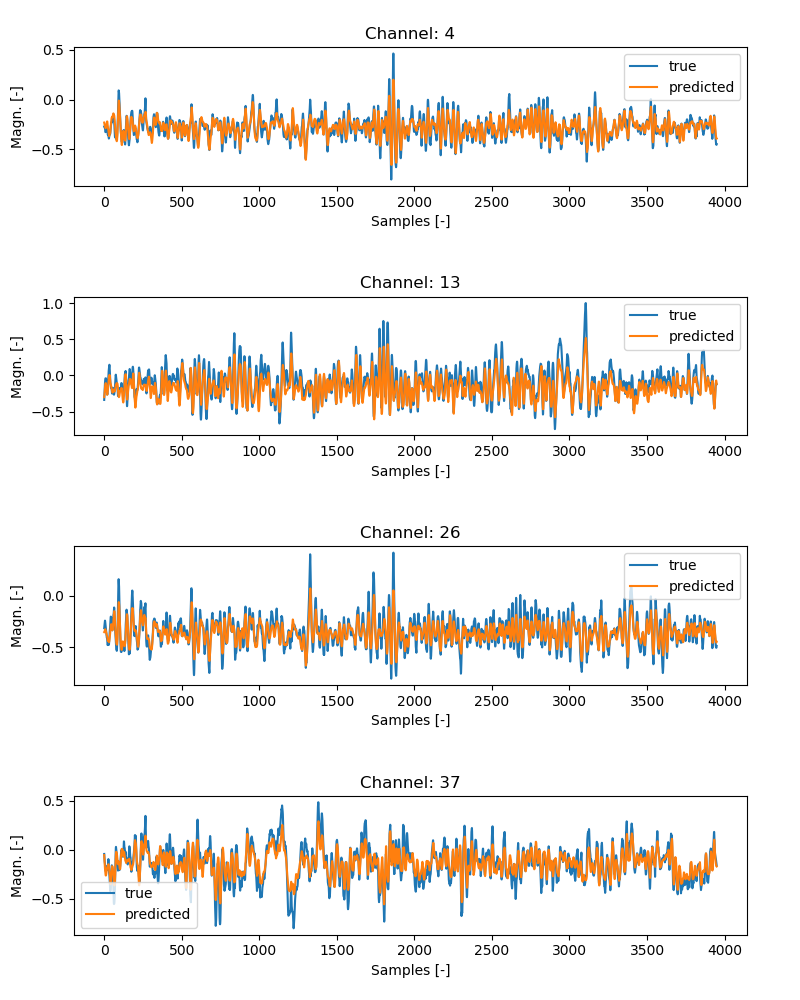
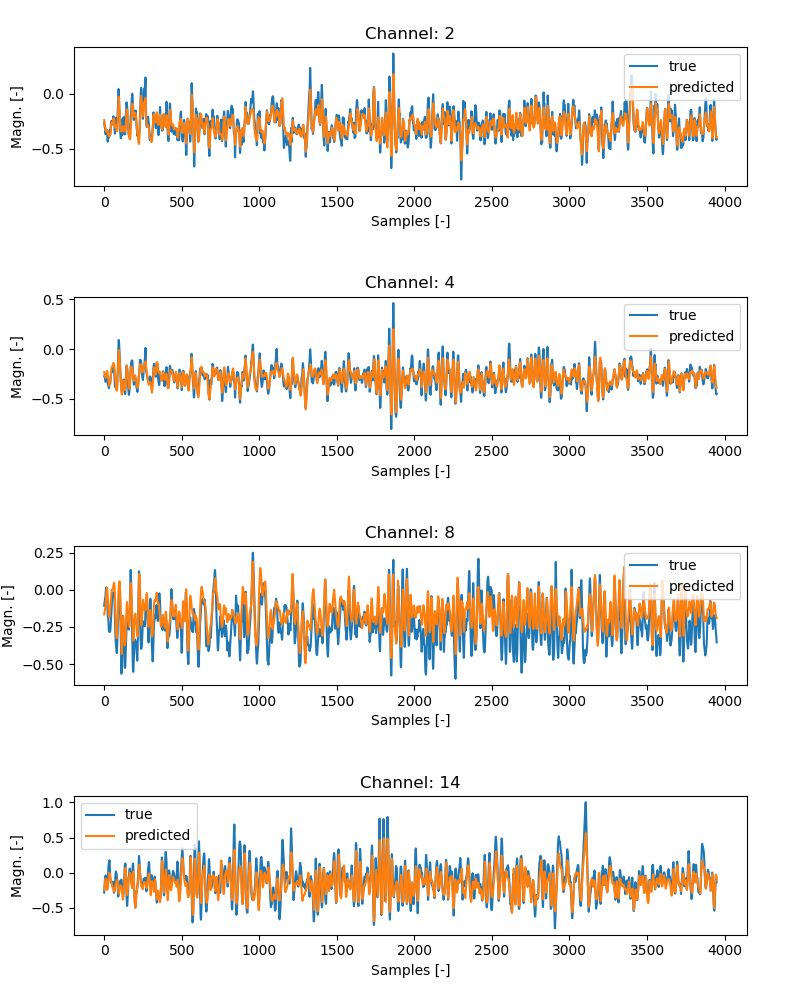
commit

diff --git a/code/utilities.py b/code/utilities.py
@@ -6,9 +6,158 @@ Part of master thesis Segessenmann J. (2020)
 import matplotlib.pyplot as plt
 import numpy as np
 import seaborn as sns
-import torch
 from scipy.io import loadmat
 from sklearn.preprocessing import MinMaxScaler
+import time
+import torch
+import torch.nn as nn
+import pickle
+
+import models
+
+
+def train(params: dict):
+    """ Train and saves model with parameters params.
+
+    """
+    # Load data
+    X_train, X_test = data_loader(params)
+
+    # Define model, criterion and optimizer
+    model = models.FRNN(params)
+    criterion = nn.MSELoss(reduction='none')
+    optimizer = torch.optim.Adam(model.parameters(), lr=0.001)
+
+    # Training
+    temp_loss = np.zeros([len(X_train), params['channel_size']])
+    epoch_loss = np.zeros([params['epochs'], params['channel_size']])
+
+    start_time = time.time()
+    for epoch in range(params['epochs']):
+        if epoch is not 0 and epoch % params['lr_decay'] is 0:
+            for param_group in optimizer.param_groups:
+                param_group['lr'] = param_group['lr'] / 2
+        for T, X in enumerate(X_train):
+            optimizer.zero_grad()
+            prediction = model(X)
+            loss = criterion(prediction, X[-1, :])
+            temp_loss[T, :] = loss.detach()
+            torch.autograd.backward(loss.mean())
+            optimizer.step()
+        epoch_loss[epoch, :] = np.mean(temp_loss, axis=0)
+        print(f'Epoch: {epoch} | Loss: {np.mean(temp_loss):.4}')
+
+    total_time = time.time() - start_time
+    print(f'Time [min]: {total_time / 60:.3}')
+
+    # Plot loss
+    fig, ax = plt.subplots(1, figsize=(8, 8))
+    ax.plot(np.max(epoch_loss, axis=1), c='tab:blue', ls='--', label='max/min')
+    ax.plot(np.min(epoch_loss, axis=1), c='tab:blue', ls='--')
+    ax.plot(np.quantile(epoch_loss, 0.25, axis=1), c='tab:purple', label='quartile')
+    ax.plot(np.quantile(epoch_loss, 0.75, axis=1), c='tab:purple')
+    ax.plot(np.median(epoch_loss, axis=1), c='tab:red', ls='--', lw=3, label='median')
+    ax.set_title(f'Computation time [min]: {total_time / 60:.3}')
+    ax.set_ylabel('Loss')
+    ax.set_xlabel('Epoch')
+    ax.legend()
+    ax.grid()
+    fig.savefig('../doc/figures/losses_' + params['name'] + '.png')
+
+    # Save model and params to file
+    torch.save(model.state_dict(), '../models/' + params['name'] + '.pth')
+    pickle.dump(params, open('../models/' + params['name'] + '.pkl', 'wb'))
+
+
+def evaluation(model_name: str, ch_show: list, plot_signal=True, plot_W=True,
+               plot_scatter=True, plot_box=True, eval_train=False):
+    """ Evaluates model an returns evaluation values.
+
+    """
+    # Load parameters
+    params = pickle.load(open('../models/' + model_name + '.pkl', 'rb'))
+
+    # Load data
+    X_train, X_test = data_loader(params)
+
+    # Get trained model
+    model = models.FRNN(params)
+    model.load_state_dict(torch.load('../models/' + params['name'] + '.pth'))
+
+    # Evaluate model
+    model.eval()
+
+    with torch.no_grad():
+        test_preds = np.zeros((len(X_test), params['channel_size']))
+        test_true = np.zeros((len(X_test), params['channel_size']))
+        test_corr = []
+        for T, X in enumerate(X_test):
+            predictions = model(X)
+            test_preds[T, :] = predictions.numpy()
+            test_true[T, :] = X[-1, :].numpy()
+        for i in range(params['channel_size']):
+            test_corr.append(np.corrcoef(test_preds[:, i], test_true[:, i])[0, 1])
+        print(f'Mean test correlation: {np.mean(test_corr)}')
+
+        if eval_train:
+            train_preds = np.zeros((len(X_train), params['channel_size']))
+            train_true = np.zeros((len(X_train), params['channel_size']))
+            train_corr = []
+            with torch.no_grad():
+                for T, X in enumerate(X_train):
+                    predictions = model(X)
+                    train_preds[T, :] = predictions.numpy()
+                    train_true[T, :] = X[-1, :].numpy()
+                for i in range(params['channel_size']):
+                    train_corr.append(np.corrcoef(train_preds[:, i], train_true[:, i])[0, 1])
+                print(f'Mean train correlation: {np.mean(train_corr)}')
+
+    if plot_signal is True:
+        fig, ax = plt.subplots(len(ch_show), figsize=(8, len(ch_show) * 2.5))
+        fig.tight_layout(pad=3)
+        for i, ch_out in enumerate(ch_show):
+            ax[i].set_title(f'Channel: {ch_out}')
+            ax[i].plot(test_true[:, ch_out], label='true')
+            ax[i].plot(test_preds[:, ch_out], label='predicted')
+            ax[i].set_xlabel('Samples [-]')
+            ax[i].set_ylabel('Magn. [-]')
+            ax[i].legend()
+        fig.subplots_adjust(hspace=.8)
+        fig.savefig('../doc/figures/pred_' + params['name'] + '.png')
+
+    if plot_scatter is True:
+        idx = []
+        for i in range(int(len(ch_show) / 2)):
+            for k in range(int(len(ch_show) / 2)):
+                idx.append([i, k])
+        fig, ax = plt.subplots(int(len(ch_show) / 2), int(len(ch_show) / 2), figsize=(10, 10))
+        fig.tight_layout(pad=5)
+        for n, ch_out in enumerate(ch_show):
+            lim_max = np.max(test_true[:, ch_out])
+            lim_min = np.min(test_true[:, ch_out])
+            ax[idx[n][0]][idx[n][1]].set_title(f'Channel: {ch_out}')
+            ax[idx[n][0]][idx[n][1]].scatter(test_true[:, ch_out], test_preds[:, ch_out], s=1)
+            ax[idx[n][0]][idx[n][1]].plot([lim_min, lim_max], [lim_min, lim_max], ls="--", color='red')
+            ax[idx[n][0]][idx[n][1]].set_xlabel('True iEEG signal [-]')
+            ax[idx[n][0]][idx[n][1]].set_ylabel('Predicted iEEG signal [-]')
+        fig.savefig('../doc/figures/scatter_' + params['name'] + '.png')
+
+    if plot_box is True:
+        plt.figure(figsize=(5, 10))
+        plt.title('Correlation per channel')
+        plt.grid()
+        plt.ylim([0.5, 1])
+        plt.boxplot(test_corr)
+        plt.savefig('../doc/figures/box_' + params['name'] + '.png')
+
+    if plot_W is True:
+        W = model.W.weight.data.numpy()
+        plot_weights(W=W, params=params, vmax=.5, linewidth=.0, save2path='../doc/figures/weights_' + params['name'] + '.png')
+
+    if eval_train:
+        return test_corr, train_corr
+    else:
+        return test_corr
 
 
 def data_loader(params: dict, train_portion=0.8, windowing=True):
@@ -32,9 +181,9 @@ def data_loader(params: dict, train_portion=0.8, windowing=True):
     test_set = data[int(train_portion * params['sample_size']):, :]
 
     if windowing is False:
-        return train_set.numpy(), test_set.numpy()
+        return train_set, test_set
 
-    # Prepare data for learning
+    # Windowing
     X_train, X_test = [], []
     for i in range(train_set.shape[0] - params['window_size']):
         X_train.append(train_set[i:i + params['window_size'], :])
@@ -93,7 +242,6 @@ def plot_weights(W: float, params: dict, vmax=1, linewidth=.5, absolute=False, s
     fig.text(0.35, 0.08, 'from visible node', va='center', ha='center')
     fig.text(0.77, 0.08, 'from hidden node', va='center', ha='center')
     fig.subplots_adjust(hspace=0.3, wspace=0.3)
-    #plt.show()
 
     if save2path is not None:
         fig.savefig(save2path)

diff --git a/code/models.py b/code/models.py
@@ -8,7 +8,7 @@ import torch
 import torch.nn as nn
 
 
-class FRNN(nn.Module):
+class FRNN_old(nn.Module):
     def __init__(self, params: dict):
         super().__init__()
         # Parameters
@@ -83,3 +83,34 @@ class FRNN_parallel(nn.Module):
             u = torch.mul(self.Lambda, self.W(r)) + torch.mul((1 - self.Lambda), i)
             r = self.nonlinearity(u)
         return u[:, :self.visible_size]
+
+
+class FRNN(nn.Module):
+    def __init__(self, params: dict):
+        super().__init__()
+        # Parameters
+        self.hidden_size = params['hidden_size']
+        self.visible_size = params['channel_size']
+        self.full_size = self.visible_size + self.hidden_size
+        # Create FC layer
+        self.W = nn.Linear(self.full_size, self.full_size, bias=params['bias'])
+        # Define non-linearity
+        exec_str = 'self.phi = torch.' + params['nonlinearity']
+        exec(exec_str)
+        # Make gate Lambda
+        self.recurrence = params['lambda']
+        self.Lambda = torch.cat((torch.ones(self.visible_size, self.visible_size) * self.recurrence,
+                                 torch.ones(self.visible_size, self.hidden_size)), 1)
+        for idx in range(self.visible_size):
+            self.Lambda[idx, idx] = 1
+
+    def forward(self, X):
+        # Initialize r and i nodes
+        R = torch.zeros((self.visible_size, self.full_size), dtype=torch.float32)
+        I = torch.zeros((self.visible_size, self.full_size), dtype=torch.float32)
+        # Forward path
+        for t in range(X.shape[0]):
+            I[:, :self.visible_size] = X[t, :].repeat(self.visible_size).view(-1, self.visible_size)
+            U = torch.mul(self.Lambda, self.W(R)) + torch.mul((1 - self.Lambda), I)
+            R = self.phi(U)
+        return torch.diag(U[:, :self.visible_size])

diff --git a/code/main.py b/code/main.py
@@ -1,0 +1,26 @@
+""" Main file
+
+Part of master thesis Segessenmann J. (2020)
+"""
+import utilities as util
+
+params = {'name': 'FRNN_try',
+          'path2data': '../data/ID02_1h.mat',
+          # model parameters ------------------------
+          'channel_size': 20,
+          'hidden_size': 20,
+          'lambda': 0.5,
+          'nonlinearity': 'tanh',
+          'bias': True,
+          # train parameters -------------------------
+          'sample_size': 1000,
+          'window_size': 50,
+          'normalization': True,
+          'epochs': 5,
+          'lr_decay': 8}
+
+#util.train(params)
+test_corr, train_corr = util.evaluation('FRNN_try', [2, 4, 8, 14], eval_train=True)
+
+print(test_corr)
+print(train_corr)
